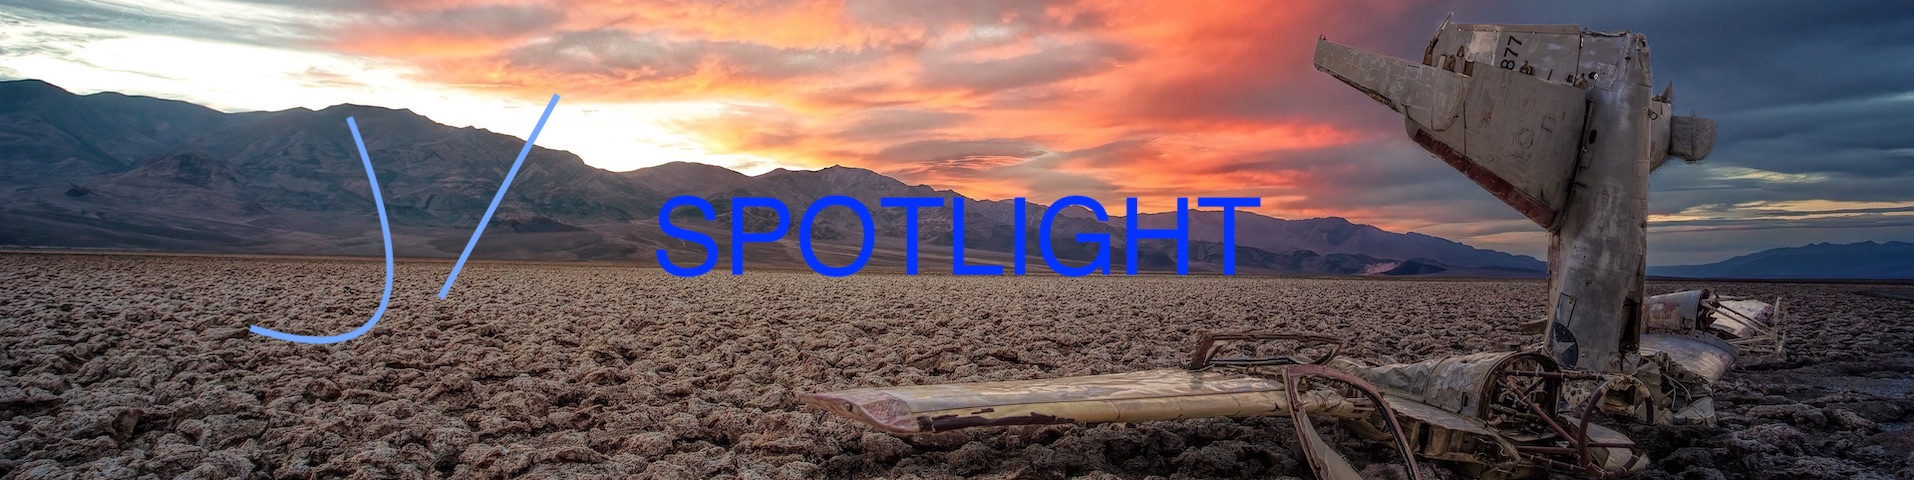
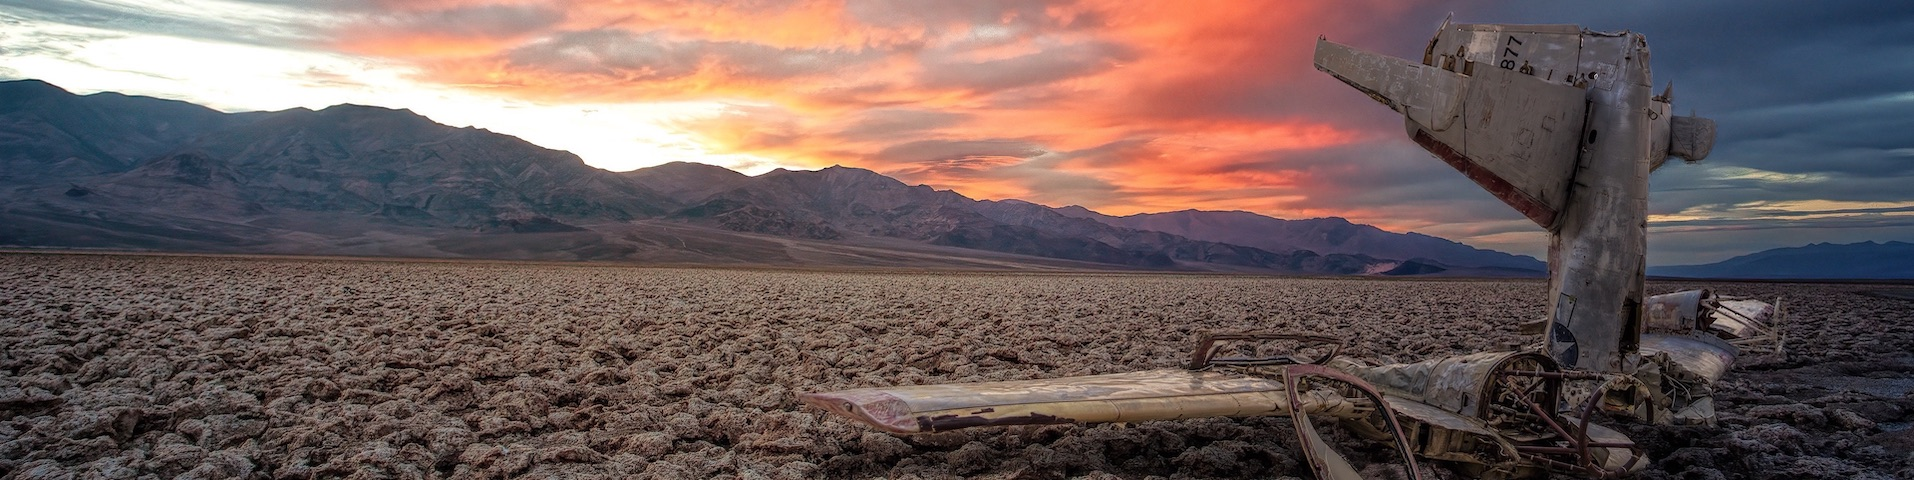
add different resolutrion img for bully post

diff --git a/_posts/2018-07-17-Bully.md b/_posts/2018-07-17-Bully.md
@@ -2,10 +2,14 @@
 layout: post
 author: guido
 title: "The bully"
+tags: software, bully, teams, collaboration
 hideLogo: true
-header-img: "img/posts/heroes/bully.jpg"
-image: "img/logo-alt.png"
-excerpt: "In this post, I will talk about the hero-bully. This is not the ordinary bully, which may come to mind, i.e. someone that everyone fears, almost nobody likes and who rules by force of intimidation. Rather, what I am talking about here are heroes who are placed on a pedestal by one group and who use the power from their received status to bully those around them that do not follow suit."
+excerpt: "In the category of 'heroes' amongst software development teams, there is one I classify as the hero-bully. This is not the simple, ordinary bully, which may come to mind, who rules by force of intimidation. A hero-bully is someone placed on a pedestal by one group and who use the power from their received status to bully those around them that do not follow suit. This can even be completely unintentional!"
+spotlight:
+  imgDir: /img/posts/heroes/bully
+  imgAlt: "Triple D : Design, Develop, Deploy"
+  logoAnimation: false
+
 ---
 # The bully
 
